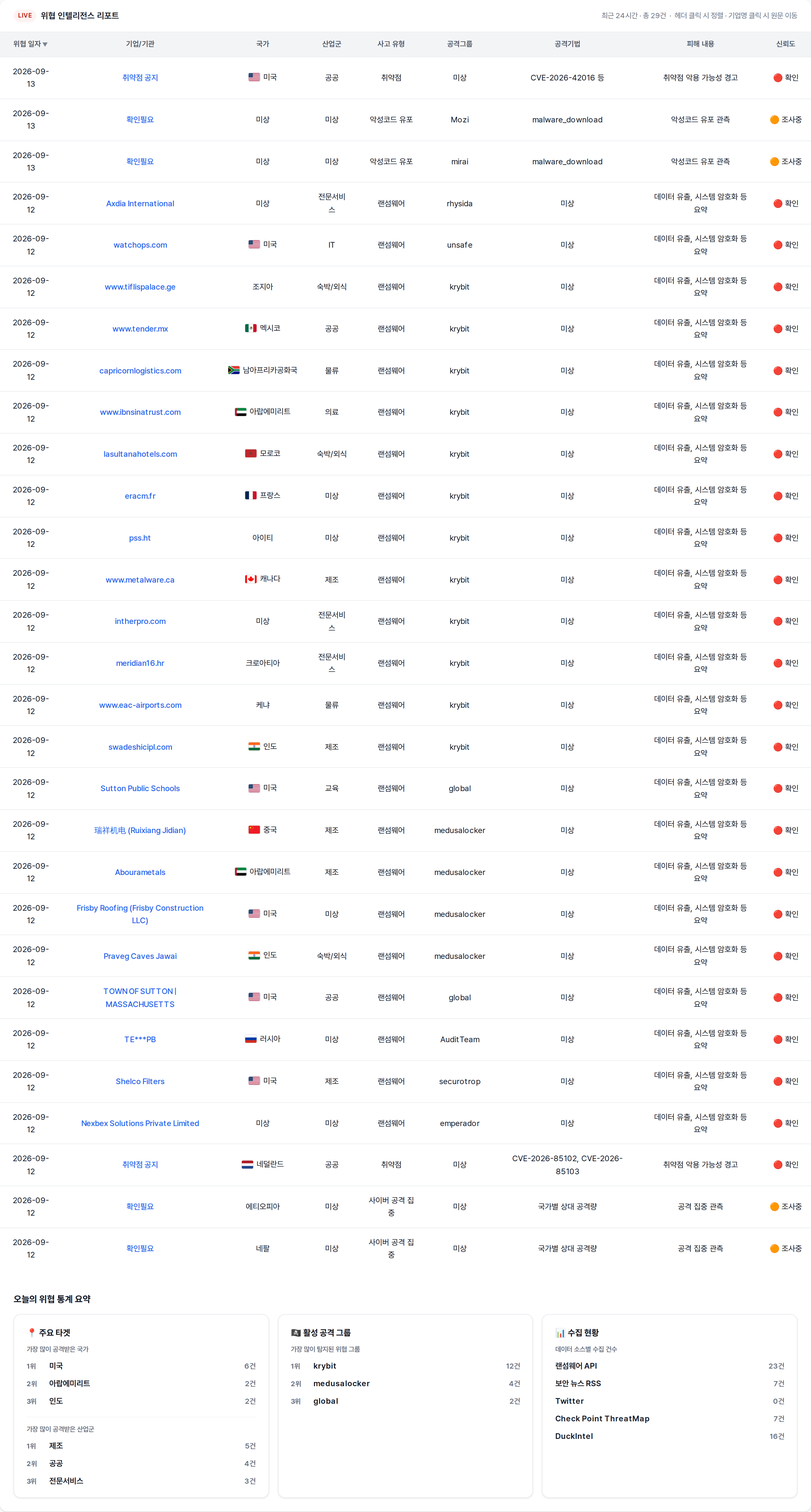
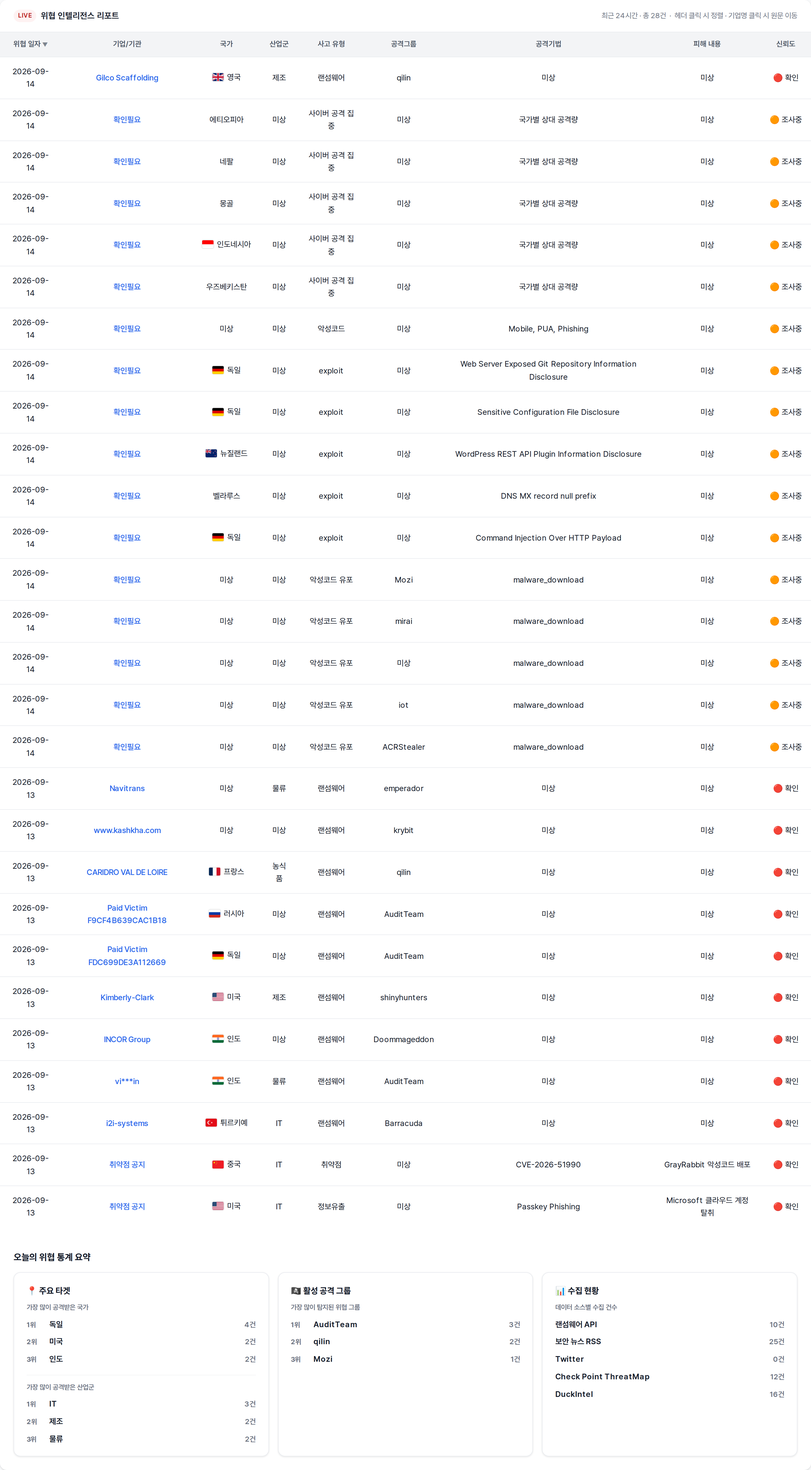
deploy: 9c533ad8fcaa3f846a31aadab046301a26f1192c

diff --git a/index.html b/index.html
@@ -3,7 +3,7 @@
 <head>
   <meta charset="UTF-8" />
   <meta name="viewport" content="width=device-width, initial-scale=1.0" />
-  <title>🚨 2026년 09월 13일 국내/해외 사이버 위협 현황</title>
+  <title>🚨 2026년 09월 14일 국내/해외 사이버 위협 현황</title>
   <link rel="preconnect" href="https://cdn.jsdelivr.net" />
   <link href="https://cdn.jsdelivr.net/gh/orioncactus/pretendard/dist/web/static/pretendard.css" rel="stylesheet" />
   <style>
@@ -253,7 +253,7 @@
 </head>
 <body>
   <div class="page-header">
-    <h1 class="page-title">🚨 2026년 09월 13일 국내/해외 사이버 위협 현황</h1>
+    <h1 class="page-title">🚨 2026년 09월 14일 국내/해외 사이버 위협 현황</h1>
   </div>
 
   <div class="dashboard">
@@ -261,41 +261,40 @@
     <div class="card-header">
       <span class="badge">LIVE</span>
       <span class="card-title">위협 인텔리전스 리포트</span>
-      <span class="card-count">최근 24시간 · 총 29건 &nbsp;·&nbsp; 헤더 클릭 시 정렬 · 기업명 클릭 시 원문 이동</span>
+      <span class="card-count">최근 24시간 · 총 28건 &nbsp;·&nbsp; 헤더 클릭 시 정렬 · 기업명 클릭 시 원문 이동</span>
     </div>
     <div class="table-wrap" style="overflow-x: auto; -webkit-overflow-scrolling: touch;">
       <table id="threat-table">
         <thead><tr><th onclick="sortTable(0)" data-col="0" class="sort-desc">위협 일자</th><th onclick="sortTable(1)" data-col="1">기업/기관</th><th onclick="sortTable(2)" data-col="2">국가</th><th onclick="sortTable(3)" data-col="3">산업군</th><th onclick="sortTable(4)" data-col="4">사고 유형</th><th onclick="sortTable(5)" data-col="5">공격그룹</th><th onclick="sortTable(6)" data-col="6">공격기법</th><th onclick="sortTable(7)" data-col="7">피해 내용</th><th onclick="sortTable(8)" data-col="8">신뢰도</th></tr></thead>
         <tbody>
-<tr><td>2026-09-13</td><td><a href="https://thehackernews.com/2026/09/cisa-adds-5-actively-exploited.html" target="_blank" rel="noopener noreferrer">취약점 공지</a></td><td class="country"><span class="country-cell"><img class="flag" src="https://flagcdn.com/w40/us.png" alt="미국" width="20" height="14" />미국</span></td><td>공공</td><td>취약점</td><td>미상</td><td>CVE-2026-42016 등</td><td>취약점 악용 가능성 경고</td><td>🔴 확인</td></tr>
-<tr><td>2026-09-13</td><td><a href="https://urlhaus.abuse.ch/url/3915374/" target="_blank" rel="noopener noreferrer">확인필요</a></td><td class="country"><span class="country-cell">미상</span></td><td>미상</td><td>악성코드 유포</td><td>Mozi</td><td>malware_download</td><td>악성코드 유포 관측</td><td>🟠 조사중</td></tr>
-<tr><td>2026-09-13</td><td><a href="https://urlhaus.abuse.ch/url/3915373/" target="_blank" rel="noopener noreferrer">확인필요</a></td><td class="country"><span class="country-cell">미상</span></td><td>미상</td><td>악성코드 유포</td><td>mirai</td><td>malware_download</td><td>악성코드 유포 관측</td><td>🟠 조사중</td></tr>
-<tr><td>2026-09-12</td><td><a href="https://www.ransomware.live/id/QXhkaWEgSW50ZXJuYXRpb25hbEByaHlzaWRh" target="_blank" rel="noopener noreferrer">Axdia International</a></td><td class="country"><span class="country-cell">미상</span></td><td>전문서비스</td><td>랜섬웨어</td><td>rhysida</td><td>미상</td><td>데이터 유출, 시스템 암호화 등 요약</td><td>🔴 확인</td></tr>
-<tr><td>2026-09-12</td><td><a href="https://www.ransomware.live/id/d2F0Y2hvcHMuY29tQHVuc2FmZQ==" target="_blank" rel="noopener noreferrer">watchops.com</a></td><td class="country"><span class="country-cell"><img class="flag" src="https://flagcdn.com/w40/us.png" alt="미국" width="20" height="14" />미국</span></td><td>IT</td><td>랜섬웨어</td><td>unsafe</td><td>미상</td><td>데이터 유출, 시스템 암호화 등 요약</td><td>🔴 확인</td></tr>
-<tr><td>2026-09-12</td><td><a href="https://www.ransomware.live/id/d3d3LnRpZmxpc3BhbGFjZS5nZUBrcnliaXQ=" target="_blank" rel="noopener noreferrer">www.tiflispalace.ge</a></td><td class="country"><span class="country-cell">조지아</span></td><td>숙박/외식</td><td>랜섬웨어</td><td>krybit</td><td>미상</td><td>데이터 유출, 시스템 암호화 등 요약</td><td>🔴 확인</td></tr>
-<tr><td>2026-09-12</td><td><a href="https://www.ransomware.live/id/d3d3LnRlbmRlci5teEBrcnliaXQ=" target="_blank" rel="noopener noreferrer">www.tender.mx</a></td><td class="country"><span class="country-cell"><img class="flag" src="https://flagcdn.com/w40/mx.png" alt="멕시코" width="20" height="14" />멕시코</span></td><td>공공</td><td>랜섬웨어</td><td>krybit</td><td>미상</td><td>데이터 유출, 시스템 암호화 등 요약</td><td>🔴 확인</td></tr>
-<tr><td>2026-09-12</td><td><a href="https://www.ransomware.live/id/Y2Fwcmljb3JubG9naXN0aWNzLmNvbUBrcnliaXQ=" target="_blank" rel="noopener noreferrer">capricornlogistics.com</a></td><td class="country"><span class="country-cell"><img class="flag" src="https://flagcdn.com/w40/za.png" alt="남아프리카공화국" width="20" height="14" />남아프리카공화국</span></td><td>물류</td><td>랜섬웨어</td><td>krybit</td><td>미상</td><td>데이터 유출, 시스템 암호화 등 요약</td><td>🔴 확인</td></tr>
-<tr><td>2026-09-12</td><td><a href="https://www.ransomware.live/id/d3d3LmlibnNpbmF0cnVzdC5jb21Aa3J5Yml0" target="_blank" rel="noopener noreferrer">www.ibnsinatrust.com</a></td><td class="country"><span class="country-cell"><img class="flag" src="https://flagcdn.com/w40/ae.png" alt="아랍에미리트" width="20" height="14" />아랍에미리트</span></td><td>의료</td><td>랜섬웨어</td><td>krybit</td><td>미상</td><td>데이터 유출, 시스템 암호화 등 요약</td><td>🔴 확인</td></tr>
-<tr><td>2026-09-12</td><td><a href="https://www.ransomware.live/id/bGFzdWx0YW5haG90ZWxzLmNvbUBrcnliaXQ=" target="_blank" rel="noopener noreferrer">lasultanahotels.com</a></td><td class="country"><span class="country-cell"><img class="flag" src="https://flagcdn.com/w40/ma.png" alt="모로코" width="20" height="14" />모로코</span></td><td>숙박/외식</td><td>랜섬웨어</td><td>krybit</td><td>미상</td><td>데이터 유출, 시스템 암호화 등 요약</td><td>🔴 확인</td></tr>
-<tr><td>2026-09-12</td><td><a href="https://www.ransomware.live/id/ZXJhY20uZnJAa3J5Yml0" target="_blank" rel="noopener noreferrer">eracm.fr</a></td><td class="country"><span class="country-cell"><img class="flag" src="https://flagcdn.com/w40/fr.png" alt="프랑스" width="20" height="14" />프랑스</span></td><td>미상</td><td>랜섬웨어</td><td>krybit</td><td>미상</td><td>데이터 유출, 시스템 암호화 등 요약</td><td>🔴 확인</td></tr>
-<tr><td>2026-09-12</td><td><a href="https://www.ransomware.live/id/cHNzLmh0QGtyeWJpdA==" target="_blank" rel="noopener noreferrer">pss.ht</a></td><td class="country"><span class="country-cell">아이티</span></td><td>미상</td><td>랜섬웨어</td><td>krybit</td><td>미상</td><td>데이터 유출, 시스템 암호화 등 요약</td><td>🔴 확인</td></tr>
-<tr><td>2026-09-12</td><td><a href="https://www.ransomware.live/id/d3d3Lm1ldGFsd2FyZS5jYUBrcnliaXQ=" target="_blank" rel="noopener noreferrer">www.metalware.ca</a></td><td class="country"><span class="country-cell"><img class="flag" src="https://flagcdn.com/w40/ca.png" alt="캐나다" width="20" height="14" />캐나다</span></td><td>제조</td><td>랜섬웨어</td><td>krybit</td><td>미상</td><td>데이터 유출, 시스템 암호화 등 요약</td><td>🔴 확인</td></tr>
-<tr><td>2026-09-12</td><td><a href="https://www.ransomware.live/id/aW50aGVycHJvLmNvbUBrcnliaXQ=" target="_blank" rel="noopener noreferrer">intherpro.com</a></td><td class="country"><span class="country-cell">미상</span></td><td>전문서비스</td><td>랜섬웨어</td><td>krybit</td><td>미상</td><td>데이터 유출, 시스템 암호화 등 요약</td><td>🔴 확인</td></tr>
-<tr><td>2026-09-12</td><td><a href="https://www.ransomware.live/id/bWVyaWRpYW4xNi5ockBrcnliaXQ=" target="_blank" rel="noopener noreferrer">meridian16.hr</a></td><td class="country"><span class="country-cell">크로아티아</span></td><td>전문서비스</td><td>랜섬웨어</td><td>krybit</td><td>미상</td><td>데이터 유출, 시스템 암호화 등 요약</td><td>🔴 확인</td></tr>
-<tr><td>2026-09-12</td><td><a href="https://www.ransomware.live/id/d3d3LmVhYy1haXJwb3J0cy5jb21Aa3J5Yml0" target="_blank" rel="noopener noreferrer">www.eac-airports.com</a></td><td class="country"><span class="country-cell">케냐</span></td><td>물류</td><td>랜섬웨어</td><td>krybit</td><td>미상</td><td>데이터 유출, 시스템 암호화 등 요약</td><td>🔴 확인</td></tr>
-<tr><td>2026-09-12</td><td><a href="https://www.ransomware.live/id/c3dhZGVzaGljaXBsLmNvbUBrcnliaXQ=" target="_blank" rel="noopener noreferrer">swadeshicipl.com</a></td><td class="country"><span class="country-cell"><img class="flag" src="https://flagcdn.com/w40/in.png" alt="인도" width="20" height="14" />인도</span></td><td>제조</td><td>랜섬웨어</td><td>krybit</td><td>미상</td><td>데이터 유출, 시스템 암호화 등 요약</td><td>🔴 확인</td></tr>
-<tr><td>2026-09-12</td><td><a href="https://www.ransomware.live/id/U3V0dG9uIFB1YmxpYyBTY2hvb2xzQGdsb2JhbA==" target="_blank" rel="noopener noreferrer">Sutton Public Schools</a></td><td class="country"><span class="country-cell"><img class="flag" src="https://flagcdn.com/w40/us.png" alt="미국" width="20" height="14" />미국</span></td><td>교육</td><td>랜섬웨어</td><td>global</td><td>미상</td><td>데이터 유출, 시스템 암호화 등 요약</td><td>🔴 확인</td></tr>
-<tr><td>2026-09-12</td><td><a href="https://www.ransomware.live/id/55Ge56Wl5py655S1IChSdWl4aWFuZyBKaWRpYW4pQG1lZHVzYWxvY2tlcg==" target="_blank" rel="noopener noreferrer">瑞祥机电 (Ruixiang Jidian)</a></td><td class="country"><span class="country-cell"><img class="flag" src="https://flagcdn.com/w40/cn.png" alt="중국" width="20" height="14" />중국</span></td><td>제조</td><td>랜섬웨어</td><td>medusalocker</td><td>미상</td><td>데이터 유출, 시스템 암호화 등 요약</td><td>🔴 확인</td></tr>
-<tr><td>2026-09-12</td><td><a href="https://www.ransomware.live/id/QWJvdXJhbWV0YWxzQG1lZHVzYWxvY2tlcg==" target="_blank" rel="noopener noreferrer">Abourametals</a></td><td class="country"><span class="country-cell"><img class="flag" src="https://flagcdn.com/w40/ae.png" alt="아랍에미리트" width="20" height="14" />아랍에미리트</span></td><td>제조</td><td>랜섬웨어</td><td>medusalocker</td><td>미상</td><td>데이터 유출, 시스템 암호화 등 요약</td><td>🔴 확인</td></tr>
-<tr><td>2026-09-12</td><td><a href="https://www.ransomware.live/id/RnJpc2J5IFJvb2ZpbmcgKEZyaXNieSBDb25zdHJ1Y3Rpb24gTExDKUBtZWR1c2Fsb2NrZXI=" target="_blank" rel="noopener noreferrer">Frisby Roofing (Frisby Construction LLC)</a></td><td class="country"><span class="country-cell"><img class="flag" src="https://flagcdn.com/w40/us.png" alt="미국" width="20" height="14" />미국</span></td><td>미상</td><td>랜섬웨어</td><td>medusalocker</td><td>미상</td><td>데이터 유출, 시스템 암호화 등 요약</td><td>🔴 확인</td></tr>
-<tr><td>2026-09-12</td><td><a href="https://www.ransomware.live/id/UHJhdmVnIENhdmVzIEphd2FpQG1lZHVzYWxvY2tlcg==" target="_blank" rel="noopener noreferrer">Praveg Caves Jawai</a></td><td class="country"><span class="country-cell"><img class="flag" src="https://flagcdn.com/w40/in.png" alt="인도" width="20" height="14" />인도</span></td><td>숙박/외식</td><td>랜섬웨어</td><td>medusalocker</td><td>미상</td><td>데이터 유출, 시스템 암호화 등 요약</td><td>🔴 확인</td></tr>
-<tr><td>2026-09-12</td><td><a href="https://www.ransomware.live/id/VE9XTiBPRiBTVVRUT04gfCBNQVNTQUNIVVNFVFRTQGdsb2JhbA==" target="_blank" rel="noopener noreferrer">TOWN OF SUTTON | MASSACHUSETTS</a></td><td class="country"><span class="country-cell"><img class="flag" src="https://flagcdn.com/w40/us.png" alt="미국" width="20" height="14" />미국</span></td><td>공공</td><td>랜섬웨어</td><td>global</td><td>미상</td><td>데이터 유출, 시스템 암호화 등 요약</td><td>🔴 확인</td></tr>
-<tr><td>2026-09-12</td><td><a href="https://www.ransomware.live/id/VEUqKipQQkBBdWRpdFRlYW0=" target="_blank" rel="noopener noreferrer">TE***PB</a></td><td class="country"><span class="country-cell"><img class="flag" src="https://flagcdn.com/w40/ru.png" alt="러시아" width="20" height="14" />러시아</span></td><td>미상</td><td>랜섬웨어</td><td>AuditTeam</td><td>미상</td><td>데이터 유출, 시스템 암호화 등 요약</td><td>🔴 확인</td></tr>
-<tr><td>2026-09-12</td><td><a href="https://www.ransomware.live/id/U2hlbGNvIEZpbHRlcnNAc2VjdXJvdHJvcA==" target="_blank" rel="noopener noreferrer">Shelco Filters</a></td><td class="country"><span class="country-cell"><img class="flag" src="https://flagcdn.com/w40/us.png" alt="미국" width="20" height="14" />미국</span></td><td>제조</td><td>랜섬웨어</td><td>securotrop</td><td>미상</td><td>데이터 유출, 시스템 암호화 등 요약</td><td>🔴 확인</td></tr>
-<tr><td>2026-09-12</td><td><a href="https://www.ransomware.live/id/TmV4YmV4IFNvbHV0aW9ucyBQcml2YXRlIExpbWl0ZWRAZW1wZXJhZG9y" target="_blank" rel="noopener noreferrer">Nexbex Solutions Private Limited</a></td><td class="country"><span class="country-cell">미상</span></td><td>미상</td><td>랜섬웨어</td><td>emperador</td><td>미상</td><td>데이터 유출, 시스템 암호화 등 요약</td><td>🔴 확인</td></tr>
-<tr><td>2026-09-12</td><td><a href="https://www.bleepingcomputer.com/news/security/dutch-ncsc-critical-check-point-vpn-flaws-exploitation-is-imminent/" target="_blank" rel="noopener noreferrer">취약점 공지</a></td><td class="country"><span class="country-cell"><img class="flag" src="https://flagcdn.com/w40/nl.png" alt="네덜란드" width="20" height="14" />네덜란드</span></td><td>공공</td><td>취약점</td><td>미상</td><td>CVE-2026-85102, CVE-2026-85103</td><td>취약점 악용 가능성 경고</td><td>🔴 확인</td></tr>
-<tr><td>2026-09-12</td><td><a href="https://threatmap.checkpoint.com/" target="_blank" rel="noopener noreferrer">확인필요</a></td><td class="country"><span class="country-cell">에티오피아</span></td><td>미상</td><td>사이버 공격 집중</td><td>미상</td><td>국가별 상대 공격량</td><td>공격 집중 관측</td><td>🟠 조사중</td></tr>
-<tr><td>2026-09-12</td><td><a href="https://threatmap.checkpoint.com/" target="_blank" rel="noopener noreferrer">확인필요</a></td><td class="country"><span class="country-cell">네팔</span></td><td>미상</td><td>사이버 공격 집중</td><td>미상</td><td>국가별 상대 공격량</td><td>공격 집중 관측</td><td>🟠 조사중</td></tr>
+<tr><td>2026-09-14</td><td><a href="https://www.ransomware.live/id/R2lsY28gU2NhZmZvbGRpbmdAcWlsaW4=" target="_blank" rel="noopener noreferrer">Gilco Scaffolding</a></td><td class="country"><span class="country-cell"><img class="flag" src="https://flagcdn.com/w40/gb.png" alt="영국" width="20" height="14" />영국</span></td><td>제조</td><td>랜섬웨어</td><td>qilin</td><td>미상</td><td>미상</td><td>🔴 확인</td></tr>
+<tr><td>2026-09-14</td><td><a href="https://threatmap.checkpoint.com/" target="_blank" rel="noopener noreferrer">확인필요</a></td><td class="country"><span class="country-cell">에티오피아</span></td><td>미상</td><td>사이버 공격 집중</td><td>미상</td><td>국가별 상대 공격량</td><td>미상</td><td>🟠 조사중</td></tr>
+<tr><td>2026-09-14</td><td><a href="https://threatmap.checkpoint.com/" target="_blank" rel="noopener noreferrer">확인필요</a></td><td class="country"><span class="country-cell">네팔</span></td><td>미상</td><td>사이버 공격 집중</td><td>미상</td><td>국가별 상대 공격량</td><td>미상</td><td>🟠 조사중</td></tr>
+<tr><td>2026-09-14</td><td><a href="https://threatmap.checkpoint.com/" target="_blank" rel="noopener noreferrer">확인필요</a></td><td class="country"><span class="country-cell">몽골</span></td><td>미상</td><td>사이버 공격 집중</td><td>미상</td><td>국가별 상대 공격량</td><td>미상</td><td>🟠 조사중</td></tr>
+<tr><td>2026-09-14</td><td><a href="https://threatmap.checkpoint.com/" target="_blank" rel="noopener noreferrer">확인필요</a></td><td class="country"><span class="country-cell"><img class="flag" src="https://flagcdn.com/w40/id.png" alt="인도네시아" width="20" height="14" />인도네시아</span></td><td>미상</td><td>사이버 공격 집중</td><td>미상</td><td>국가별 상대 공격량</td><td>미상</td><td>🟠 조사중</td></tr>
+<tr><td>2026-09-14</td><td><a href="https://threatmap.checkpoint.com/" target="_blank" rel="noopener noreferrer">확인필요</a></td><td class="country"><span class="country-cell">우즈베키스탄</span></td><td>미상</td><td>사이버 공격 집중</td><td>미상</td><td>국가별 상대 공격량</td><td>미상</td><td>🟠 조사중</td></tr>
+<tr><td>2026-09-14</td><td><a href="https://threatmap.checkpoint.com/" target="_blank" rel="noopener noreferrer">확인필요</a></td><td class="country"><span class="country-cell">미상</span></td><td>미상</td><td>악성코드</td><td>미상</td><td>Mobile, PUA, Phishing</td><td>미상</td><td>🟠 조사중</td></tr>
+<tr><td>2026-09-14</td><td><a href="https://threatmap.checkpoint.com/" target="_blank" rel="noopener noreferrer">확인필요</a></td><td class="country"><span class="country-cell"><img class="flag" src="https://flagcdn.com/w40/de.png" alt="독일" width="20" height="14" />독일</span></td><td>미상</td><td>exploit</td><td>미상</td><td>Web Server Exposed Git Repository Information Disclosure</td><td>미상</td><td>🟠 조사중</td></tr>
+<tr><td>2026-09-14</td><td><a href="https://threatmap.checkpoint.com/" target="_blank" rel="noopener noreferrer">확인필요</a></td><td class="country"><span class="country-cell"><img class="flag" src="https://flagcdn.com/w40/de.png" alt="독일" width="20" height="14" />독일</span></td><td>미상</td><td>exploit</td><td>미상</td><td>Sensitive Configuration File Disclosure</td><td>미상</td><td>🟠 조사중</td></tr>
+<tr><td>2026-09-14</td><td><a href="https://threatmap.checkpoint.com/" target="_blank" rel="noopener noreferrer">확인필요</a></td><td class="country"><span class="country-cell"><img class="flag" src="https://flagcdn.com/w40/nz.png" alt="뉴질랜드" width="20" height="14" />뉴질랜드</span></td><td>미상</td><td>exploit</td><td>미상</td><td>WordPress REST API Plugin Information Disclosure</td><td>미상</td><td>🟠 조사중</td></tr>
+<tr><td>2026-09-14</td><td><a href="https://threatmap.checkpoint.com/" target="_blank" rel="noopener noreferrer">확인필요</a></td><td class="country"><span class="country-cell">벨라루스</span></td><td>미상</td><td>exploit</td><td>미상</td><td>DNS MX record null prefix</td><td>미상</td><td>🟠 조사중</td></tr>
+<tr><td>2026-09-14</td><td><a href="https://threatmap.checkpoint.com/" target="_blank" rel="noopener noreferrer">확인필요</a></td><td class="country"><span class="country-cell"><img class="flag" src="https://flagcdn.com/w40/de.png" alt="독일" width="20" height="14" />독일</span></td><td>미상</td><td>exploit</td><td>미상</td><td>Command Injection Over HTTP Payload</td><td>미상</td><td>🟠 조사중</td></tr>
+<tr><td>2026-09-14</td><td><a href="https://urlhaus.abuse.ch/url/3915692/" target="_blank" rel="noopener noreferrer">확인필요</a></td><td class="country"><span class="country-cell">미상</span></td><td>미상</td><td>악성코드 유포</td><td>Mozi</td><td>malware_download</td><td>미상</td><td>🟠 조사중</td></tr>
+<tr><td>2026-09-14</td><td><a href="https://urlhaus.abuse.ch/url/3915694/" target="_blank" rel="noopener noreferrer">확인필요</a></td><td class="country"><span class="country-cell">미상</span></td><td>미상</td><td>악성코드 유포</td><td>mirai</td><td>malware_download</td><td>미상</td><td>🟠 조사중</td></tr>
+<tr><td>2026-09-14</td><td><a href="https://urlhaus.abuse.ch/url/3915727/" target="_blank" rel="noopener noreferrer">확인필요</a></td><td class="country"><span class="country-cell">미상</span></td><td>미상</td><td>악성코드 유포</td><td>미상</td><td>malware_download</td><td>미상</td><td>🟠 조사중</td></tr>
+<tr><td>2026-09-14</td><td><a href="https://urlhaus.abuse.ch/url/3915729/" target="_blank" rel="noopener noreferrer">확인필요</a></td><td class="country"><span class="country-cell">미상</span></td><td>미상</td><td>악성코드 유포</td><td>iot</td><td>malware_download</td><td>미상</td><td>🟠 조사중</td></tr>
+<tr><td>2026-09-14</td><td><a href="https://urlhaus.abuse.ch/url/3915945/" target="_blank" rel="noopener noreferrer">확인필요</a></td><td class="country"><span class="country-cell">미상</span></td><td>미상</td><td>악성코드 유포</td><td>ACRStealer</td><td>malware_download</td><td>미상</td><td>🟠 조사중</td></tr>
+<tr><td>2026-09-13</td><td><a href="https://www.ransomware.live/id/TmF2aXRyYW5zQGVtcGVyYWRvcg==" target="_blank" rel="noopener noreferrer">Navitrans</a></td><td class="country"><span class="country-cell">미상</span></td><td>물류</td><td>랜섬웨어</td><td>emperador</td><td>미상</td><td>미상</td><td>🔴 확인</td></tr>
+<tr><td>2026-09-13</td><td><a href="https://www.ransomware.live/id/d3d3Lmthc2hraGEuY29tQGtyeWJpdA==" target="_blank" rel="noopener noreferrer">www.kashkha.com</a></td><td class="country"><span class="country-cell">미상</span></td><td>미상</td><td>랜섬웨어</td><td>krybit</td><td>미상</td><td>미상</td><td>🔴 확인</td></tr>
+<tr><td>2026-09-13</td><td><a href="https://www.ransomware.live/id/Q0FSSURSTyBWQUwgREUgTE9JUkVAcWlsaW4=" target="_blank" rel="noopener noreferrer">CARIDRO VAL DE LOIRE</a></td><td class="country"><span class="country-cell"><img class="flag" src="https://flagcdn.com/w40/fr.png" alt="프랑스" width="20" height="14" />프랑스</span></td><td>농식품</td><td>랜섬웨어</td><td>qilin</td><td>미상</td><td>미상</td><td>🔴 확인</td></tr>
+<tr><td>2026-09-13</td><td><a href="https://www.ransomware.live/id/UGFpZCBWaWN0aW0gRjlDRjRCNjM5Q0FDMUIxOEBBdWRpdFRlYW0=" target="_blank" rel="noopener noreferrer">Paid Victim F9CF4B639CAC1B18</a></td><td class="country"><span class="country-cell"><img class="flag" src="https://flagcdn.com/w40/ru.png" alt="러시아" width="20" height="14" />러시아</span></td><td>미상</td><td>랜섬웨어</td><td>AuditTeam</td><td>미상</td><td>미상</td><td>🔴 확인</td></tr>
+<tr><td>2026-09-13</td><td><a href="https://www.ransomware.live/id/UGFpZCBWaWN0aW0gRkRDNjk5REUzQTExMjY2OUBBdWRpdFRlYW0=" target="_blank" rel="noopener noreferrer">Paid Victim FDC699DE3A112669</a></td><td class="country"><span class="country-cell"><img class="flag" src="https://flagcdn.com/w40/de.png" alt="독일" width="20" height="14" />독일</span></td><td>미상</td><td>랜섬웨어</td><td>AuditTeam</td><td>미상</td><td>미상</td><td>🔴 확인</td></tr>
+<tr><td>2026-09-13</td><td><a href="https://www.ransomware.live/id/S2ltYmVybHktQ2xhcmtAc2hpbnlodW50ZXJz" target="_blank" rel="noopener noreferrer">Kimberly-Clark</a></td><td class="country"><span class="country-cell"><img class="flag" src="https://flagcdn.com/w40/us.png" alt="미국" width="20" height="14" />미국</span></td><td>제조</td><td>랜섬웨어</td><td>shinyhunters</td><td>미상</td><td>미상</td><td>🔴 확인</td></tr>
+<tr><td>2026-09-13</td><td><a href="https://www.ransomware.live/id/SU5DT1IgR3JvdXBARG9vbW1hZ2VkZG9u" target="_blank" rel="noopener noreferrer">INCOR Group</a></td><td class="country"><span class="country-cell"><img class="flag" src="https://flagcdn.com/w40/in.png" alt="인도" width="20" height="14" />인도</span></td><td>미상</td><td>랜섬웨어</td><td>Doommageddon</td><td>미상</td><td>미상</td><td>🔴 확인</td></tr>
+<tr><td>2026-09-13</td><td><a href="https://www.ransomware.live/id/dmkqKippbkBBdWRpdFRlYW0=" target="_blank" rel="noopener noreferrer">vi***in</a></td><td class="country"><span class="country-cell"><img class="flag" src="https://flagcdn.com/w40/in.png" alt="인도" width="20" height="14" />인도</span></td><td>물류</td><td>랜섬웨어</td><td>AuditTeam</td><td>미상</td><td>미상</td><td>🔴 확인</td></tr>
+<tr><td>2026-09-13</td><td><a href="https://www.ransomware.live/id/aTJpLXN5c3RlbXNAQmFycmFjdWRh" target="_blank" rel="noopener noreferrer">i2i-systems</a></td><td class="country"><span class="country-cell"><img class="flag" src="https://flagcdn.com/w40/tr.png" alt="튀르키예" width="20" height="14" />튀르키예</span></td><td>IT</td><td>랜섬웨어</td><td>Barracuda</td><td>미상</td><td>미상</td><td>🔴 확인</td></tr>
+<tr><td>2026-09-13</td><td><a href="https://www.bleepingcomputer.com/news/security/hackers-exploit-tencent-app-flaw-to-deploy-grayrabbit-malware/" target="_blank" rel="noopener noreferrer">취약점 공지</a></td><td class="country"><span class="country-cell"><img class="flag" src="https://flagcdn.com/w40/cn.png" alt="중국" width="20" height="14" />중국</span></td><td>IT</td><td>취약점</td><td>미상</td><td>CVE-2026-51990</td><td>GrayRabbit 악성코드 배포</td><td>🔴 확인</td></tr>
+<tr><td>2026-09-13</td><td><a href="https://thehackernews.com/2026/09/attackers-use-passkey-phishing-to.html" target="_blank" rel="noopener noreferrer">취약점 공지</a></td><td class="country"><span class="country-cell"><img class="flag" src="https://flagcdn.com/w40/us.png" alt="미국" width="20" height="14" />미국</span></td><td>IT</td><td>정보유출</td><td>미상</td><td>Passkey Phishing</td><td>Microsoft 클라우드 계정 탈취</td><td>🔴 확인</td></tr>
         </tbody>
       </table>
     </div>
@@ -306,19 +305,19 @@
       <article class="stat-card">
         <h3 class="stat-title">📍 주요 타겟</h3>
         <p class="stat-subtitle">가장 많이 공격받은 국가</p>
-        <ol class="stat-list"><li><span class="stat-rank">1위</span><span class="stat-name">미국</span><span class="stat-count">6건</span></li><li><span class="stat-rank">2위</span><span class="stat-name">아랍에미리트</span><span class="stat-count">2건</span></li><li><span class="stat-rank">3위</span><span class="stat-name">인도</span><span class="stat-count">2건</span></li></ol>
+        <ol class="stat-list"><li><span class="stat-rank">1위</span><span class="stat-name">독일</span><span class="stat-count">4건</span></li><li><span class="stat-rank">2위</span><span class="stat-name">미국</span><span class="stat-count">2건</span></li><li><span class="stat-rank">3위</span><span class="stat-name">인도</span><span class="stat-count">2건</span></li></ol>
         <p class="stat-subtitle stat-subtitle-gap">가장 많이 공격받은 산업군</p>
-        <ol class="stat-list"><li><span class="stat-rank">1위</span><span class="stat-name">제조</span><span class="stat-count">5건</span></li><li><span class="stat-rank">2위</span><span class="stat-name">공공</span><span class="stat-count">4건</span></li><li><span class="stat-rank">3위</span><span class="stat-name">전문서비스</span><span class="stat-count">3건</span></li></ol>
+        <ol class="stat-list"><li><span class="stat-rank">1위</span><span class="stat-name">IT</span><span class="stat-count">3건</span></li><li><span class="stat-rank">2위</span><span class="stat-name">제조</span><span class="stat-count">2건</span></li><li><span class="stat-rank">3위</span><span class="stat-name">물류</span><span class="stat-count">2건</span></li></ol>
       </article>
       <article class="stat-card">
         <h3 class="stat-title">🏴☠ 활성 공격 그룹</h3>
         <p class="stat-subtitle">가장 많이 탐지된 위협 그룹</p>
-        <ol class="stat-list"><li><span class="stat-rank">1위</span><span class="stat-name">krybit</span><span class="stat-count">12건</span></li><li><span class="stat-rank">2위</span><span class="stat-name">medusalocker</span><span class="stat-count">4건</span></li><li><span class="stat-rank">3위</span><span class="stat-name">global</span><span class="stat-count">2건</span></li></ol>
+        <ol class="stat-list"><li><span class="stat-rank">1위</span><span class="stat-name">AuditTeam</span><span class="stat-count">3건</span></li><li><span class="stat-rank">2위</span><span class="stat-name">qilin</span><span class="stat-count">2건</span></li><li><span class="stat-rank">3위</span><span class="stat-name">Mozi</span><span class="stat-count">1건</span></li></ol>
       </article>
       <article class="stat-card">
         <h3 class="stat-title">📊 수집 현황</h3>
         <p class="stat-subtitle">데이터 소스별 수집 건수</p>
-        <ul class="stat-list stat-sources"><li><span class="stat-name">랜섬웨어 API</span><span class="stat-count">23건</span></li><li><span class="stat-name">보안 뉴스 RSS</span><span class="stat-count">7건</span></li><li><span class="stat-name">Twitter</span><span class="stat-count">0건</span></li><li><span class="stat-name">Check Point ThreatMap</span><span class="stat-count">7건</span></li><li><span class="stat-name">DuckIntel</span><span class="stat-count">16건</span></li></ul>
+        <ul class="stat-list stat-sources"><li><span class="stat-name">랜섬웨어 API</span><span class="stat-count">10건</span></li><li><span class="stat-name">보안 뉴스 RSS</span><span class="stat-count">25건</span></li><li><span class="stat-name">Twitter</span><span class="stat-count">0건</span></li><li><span class="stat-name">Check Point ThreatMap</span><span class="stat-count">12건</span></li><li><span class="stat-name">DuckIntel</span><span class="stat-count">16건</span></li></ul>
       </article>
     </div>
   </section>
